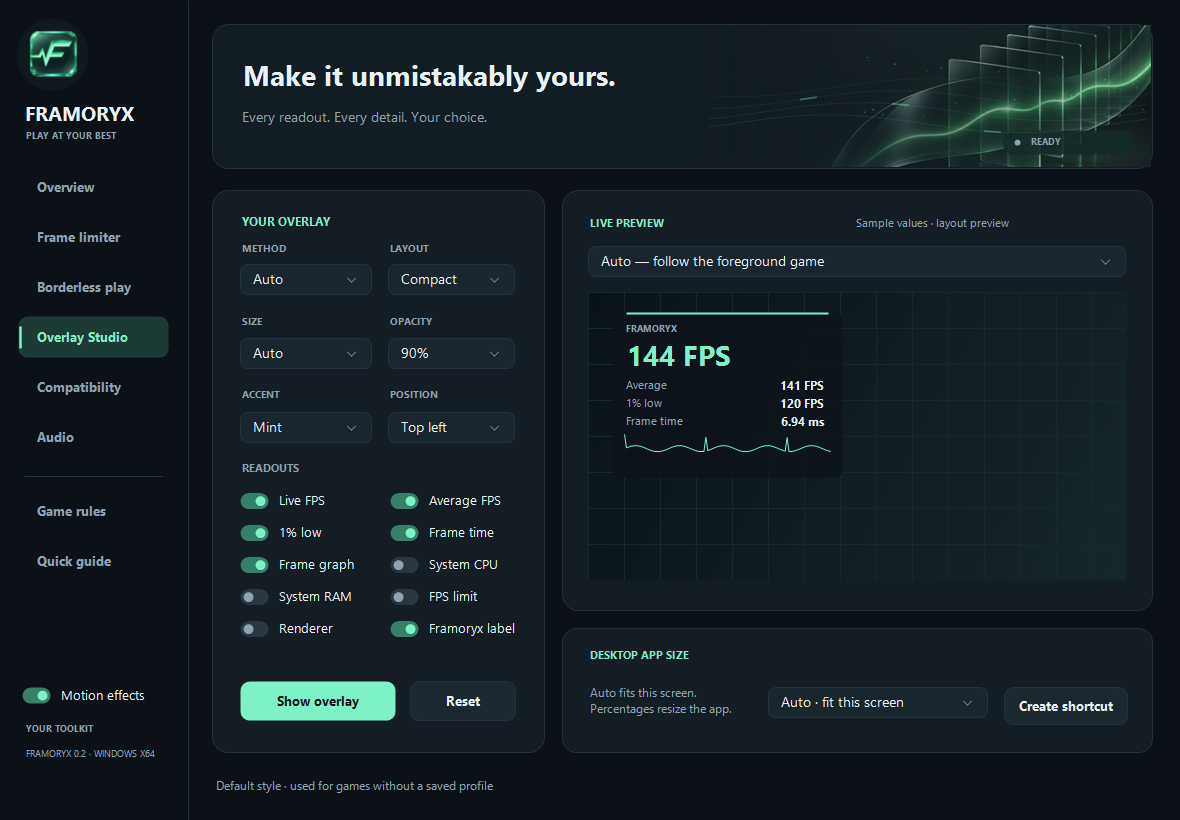
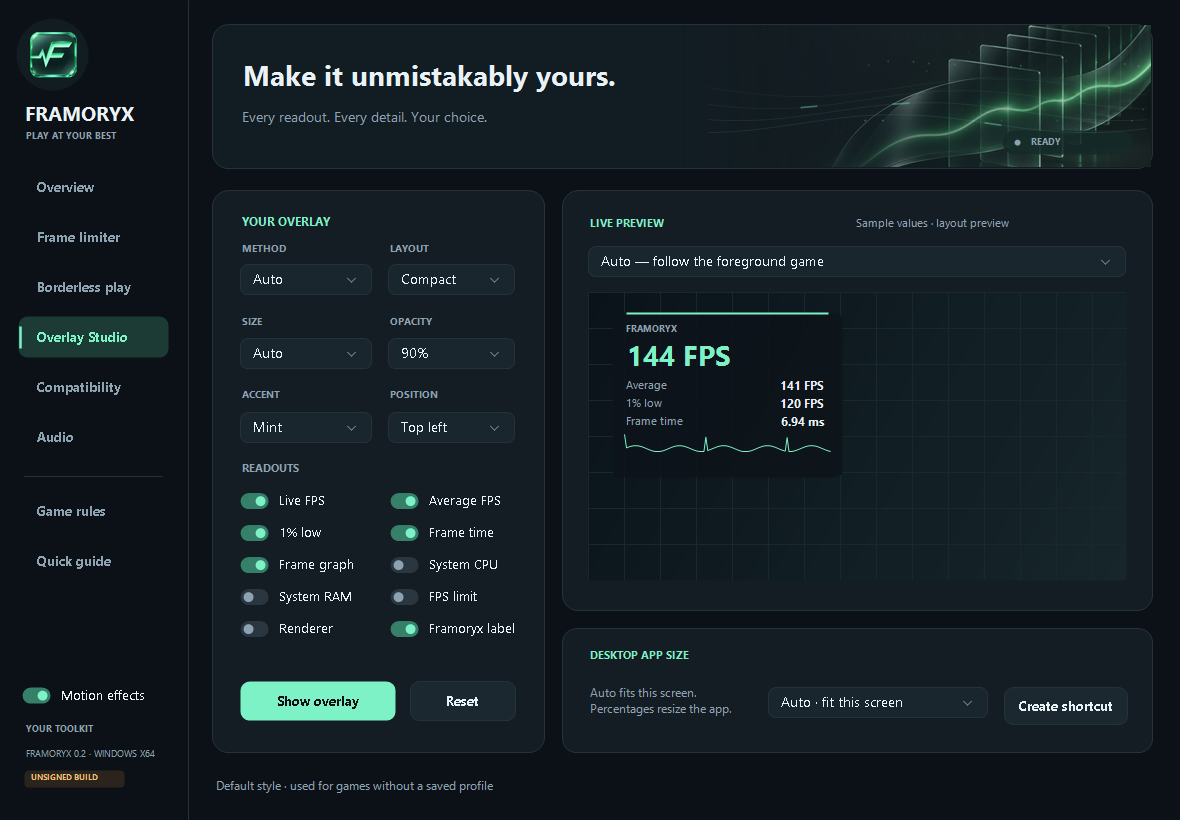
Finish audio setup, unsigned build notices and release validation

diff --git a/source/main.cpp b/source/main.cpp
@@ -1223,6 +1223,8 @@ void paintMain(HDC destination, const RECT& invalid) {
             line(g, 24, 476, 162, 476);
             label(g, L"YOUR TOOLKIT", 24, 722, 145, 20, 9, muted, true);
             label(g, L"FRAMORYX 0.2 · WINDOWS X64", 24, 747, 146, 40, 9, muted, false, true);
+            rounded(g, RectF(24, 770, 100, 17), Color(255, 43, 36, 29), 4);
+            label(g, L"UNSIGNED BUILD", 30, 771, 94, 16, 8, amber, true);
             if (!app.preferencesSaved)
                 label(g, L"Preferences not saved", 24, 794, 145, 20, 9, amber, true);
             if (app.page == 5)
@@ -1798,7 +1800,9 @@ LRESULT CALLBACK comboProc(HWND w, UINT msg, WPARAM wp, LPARAM lp, UINT_PTR, DWO
         GetClientRect(w, &r);
         {
             Graphics g(dc);
-            g.Clear(id == Corner ? bg : card);
+            bool audioInset = id == BoostLevel || id == BassAmount || id == MicNoisePreset ||
+                              id == MicEQPreset || (id >= MicLow && id <= MicHigh);
+            g.Clear(id == Corner ? bg : (audioInset ? Color(255, 17, 25, 32) : card));
             g.SetSmoothingMode(SmoothingModeAntiAlias);
             rounded(g, RectF(0, 0, float(r.right - 1), float(r.bottom - 1)), Color(255, 25, 38, 46),
                     7, true);
@@ -2366,7 +2370,10 @@ LRESULT CALLBACK mainProc(HWND window, UINT msg, WPARAM wp, LPARAM lp) {
         Color buttonColor = disabled  ? Color(255, 22, 29, 35)
                             : pressed ? Color(255, 49, 96, 80)
                                       : mixColor(base, hot, warmth);
-        g.Clear(nav ? bg : card);
+        bool audioInset = d->CtlID == ApplyBoost || d->CtlID == DisableBoost ||
+                          d->CtlID == BassApply || d->CtlID == BassDisable ||
+                          d->CtlID == MicChoosePlugin || d->CtlID == MicDownload;
+        g.Clear(nav ? bg : (audioInset ? Color(255, 17, 25, 32) : card));
         rounded(g, RectF(0, 0, width - 1, height - 1), buttonColor, 9,
                 !nav && !primary && !stepper);
         if (!nav && !disabled && warmth > .01) {
@@ -2585,6 +2592,11 @@ LRESULT CALLBACK mainProc(HWND window, UINT msg, WPARAM wp, LPARAM lp) {
             double db = SendMessageW(app.controls[BoostLevel], CB_GETCURSEL, 0, 0) == 0
                             ? 3.0
                             : 20 * std::log10(2.0);
+            if (!app.smokeAudio && !fg::setAudioVolume(1.f)) {
+                app.audioNotice = L"Windows could not change this output’s volume.";
+                break;
+            }
+            app.audio.volume = 1.f;
             app.gainWorker.request(app.boost.directory(), app.audio.guid, db);
             app.outputBoostActive = true;
             app.outputPercent = std::clamp(
@@ -2815,7 +2827,10 @@ int WINAPI wWinMain(HINSTANCE instance, HINSTANCE, PWSTR, int show) {
             app.rulesSnapshotPath = arguments[++i];
         else if (argument == L"--audio-mic")
             app.diagnosticMic = true;
-        else if (argument == L"--snapshot" && i + 1 < argumentCount)
+        else if (argument == L"--audio-setup" && diagnosticInstance) {
+            app.audioSetup = true;
+            app.fixedSmokePage = 1;
+        } else if (argument == L"--snapshot" && i + 1 < argumentCount)
             app.snapshotPath = arguments[++i];
         else if (argument == L"--smoke-seconds" && i + 1 < argumentCount) {
             auto duration = fg::number(fg::utf8(arguments[++i]));

diff --git a/source/audio_gain.hpp b/source/audio_gain.hpp
@@ -3,6 +3,7 @@
 #include <thread>
 #include <mutex>
 #include <condition_variable>
+#include <chrono>
 namespace fg {
 class GainWorker {
     struct Request {
@@ -14,7 +15,7 @@ class GainWorker {
     std::condition_variable wake;
     std::optional<Request> pending;
     std::optional<std::wstring> result;
-    bool stopped = false;
+    bool stopped = false, writing = false;
 
   public:
     ~GainWorker() {
@@ -45,12 +46,14 @@ class GainWorker {
                         break;
                     auto request = *pending;
                     pending.reset();
+                    writing = true;
                     lock.unlock();
                     AudioBoost boost;
                     boost.directory(request.directory);
                     auto error =
                         request.db > 0 ? boost.apply(request.db, request.guid) : boost.disable();
                     lock.lock();
+                    writing = false;
                     result = std::move(error);
                 }
             });
@@ -61,6 +64,10 @@ class GainWorker {
         auto out = result;
         result.reset();
         return out;
+    }
+    bool busy() {
+        std::lock_guard lock(mutex);
+        return writing || pending.has_value();
     }
 };
 } // namespace fg

diff --git a/source/audio.hpp b/source/audio.hpp
@@ -180,7 +180,7 @@ class AudioBoost {
         pos += 8;
         auto end = filter.find(' ', pos);
         auto n = number(filter.substr(pos, end - pos));
-        return n ? std::optional<double>(*n) : std::nullopt;
+        return n && *n >= 0 && *n <= 12 ? std::optional<double>(*n) : std::nullopt;
     }
     std::wstring apply(double db, const std::wstring& endpointGuid) {
         bool validGuid = endpointGuid.size() == 38 && endpointGuid.front() == L'{' &&
@@ -230,7 +230,8 @@ class AudioBoost {
             return L"Cannot save boost. Run Framoryx as administrator to change the Equalizer APO "
                    L"config.";
         if (!installed) {
-            config += "\r\n# Framoryx audio boost\r\nDevice: all\r\nInclude: framoryx-boost.txt\r\n";
+            config +=
+                "\r\n# Framoryx audio boost\r\nDevice: all\r\nInclude: framoryx-boost.txt\r\n";
             if (!write(base / L"config.txt", config)) {
                 write(base / L"framoryx-boost.txt", "# Framoryx audio boost\r\nPreamp: 0 dB\r\n");
                 return L"Cannot link the audio configuration. No boost applied.";

diff --git a/source/noise_updates.cpp b/source/noise_updates.cpp
@@ -378,7 +378,16 @@ void NoiseUpdater::start(const std::wstring& directory, bool force) {
     if (state->worker.joinable())
         state->worker.join();
     state->cancel = false;
-    state->worker = std::thread([this, directory, force] { state->run(directory, force); });
+    {
+        std::lock_guard lock(state->mutex);
+        state->result.reset();
+    }
+    try {
+        state->worker = std::thread([this, directory, force] { state->run(directory, force); });
+    } catch (const std::exception&) {
+        state->status(L"Windows could not start the update worker. Try again later.");
+        state->busy = false;
+    }
 }
 bool NoiseUpdater::running() const {
     return state->busy;

diff --git a/source/audio_ui.hpp b/source/audio_ui.hpp
@@ -64,7 +64,8 @@ void paintAudio(Graphics& g) {
         label(g,
               L"Bass and EQ include headroom reduction. Amplifying above 100% can still clip. "
               L"Effects remain configured after exit.",
-              244, 745, 860, 22, 10, muted);
+              244, 605, 860, 22, 10, muted);
+        label(g, app.audioNotice, 214, 777, 938, 38, 12, muted, false, true);
         return;
     }
     if (app.audioTab == 0) {

diff --git a/source/audio_work.hpp b/source/audio_work.hpp
@@ -1,4 +1,6 @@
 void syncOutputVolume() {
+    if (app.gainWorker.busy())
+        return;
     app.audio = fg::audioState();
     double gain = app.boost.configuredGain(app.audio.guid).value_or(0);
     app.outputBoostActive = gain > .001;

diff --git a/docs/VALIDATION.md b/docs/VALIDATION.md
@@ -8,11 +8,14 @@ The local Windows validation completed:
 - Official RNNoise v1.10 mono and stereo VST2 binaries accepted all three configured voice thresholds and processed 480,000 finite offline samples each. This is a DSP/state check, not a listening-quality certification.
 - **67 graphics/lifecycle checks** against bundled x64 DX11, x64 DX12 and x86 DX11 scenes.
 - **Four UI/profile/scale checks**, including saved-layout round-trip through the actual controls, smaller/larger desktop percentages and Auto restoration.
+- **Six audio UI checks** through the actual controls, covering live percentage state, the 200% range, voice presets and setup navigation. Windows volume writes are suppressed in this bounded diagnostic mode; any gain configuration uses an isolated scratch folder.
+- **Two process-rule UI checks** for inline invalid-path rejection and valid-rule persistence.
+- A successful automatic download of the latest stable upstream RNNoise release (v1.10), with archive SHA-256, mono/stereo selection and isolated audio/preset probes. Transient GitHub failures exercised retry and release-list/asset-route fallback behavior.
 - A **120-second non-injecting ETW/borderless soak**: 391 steady observations, no missing telemetry, seven window transitions, 36,864 bytes of post-warm-up collector growth and zero handle growth.
 
 The graphics checks covered all three HUD layouts, selected readouts, live size/opacity/accent changes, font-atlas rebuilding, frame-ring integrity, 30/60/uncapped pacing, shader preservation, resizing, clean disable, heartbeat loss and conservative multi-queue DX12 fallback.
 
-The UI animation check targeted the detected 144 Hz display, completed seven navigation transitions, exercised three window sizes and received real demo frames. Average paint time was approximately 1.4 ms; initial/layout/cache work caused higher peaks. This is a diagnostic workload, not a universal frame-presentation or idle-power benchmark.
+The UI animation check targeted the detected 144 Hz display, completed seven navigation transitions, exercised three window sizes and received real demo frames. The latest 28-second run received 101 real demo samples and completed seven transitions, with an average paint time of approximately 1.28 ms; initial/layout/cache work caused higher peaks. This is a diagnostic workload, not a universal frame-presentation or idle-power benchmark.
 
 ## Interrupted test
 

diff --git a/docs/BUILDING.md b/docs/BUILDING.md
@@ -12,7 +12,7 @@ The toolchain archive is pinned and SHA-256 verified. PresentMon is fetched sepa
 ./scripts/package.ps1 -ToolchainBin C:\llvm-mingw\bin
 ```
 
-Core tests and audio-configuration tests run during the build. Audio tests use scratch configuration files and do not change system audio.
+The build runs 32 core, 20 gain and 38 microphone/bass configuration checks. It also builds an isolated VST2 audio-compatibility helper for runtime RNNoise downloads. Audio tests use scratch configuration files and do not change system audio.
 
 ## Runtime checks
 
@@ -26,6 +26,8 @@ Core tests and audio-configuration tests run during the build. Audio tests use s
 # UI/profile/scale/motion checks with isolated preferences
 ./source/validate.ps1 -ToolchainBin C:\llvm-mingw\bin -UiSmokeSeconds 28
 ```
+
+The bounded `--smoke-audio-controls` app flag can be combined with `--smoke-seconds 12 --smoke-page 1 --report <scratch.json> --settings-file <scratch.ini>` to exercise the audio/rules controls. It suppresses Windows volume writes, disables automatic downloads and directs gain changes into a scratch APO config. Both report and isolated settings arguments are required. `--snapshot <image.png>`, `--audio-mic` and `--audio-setup` export the app's own client rendering for visual review.
 
 The old injection soak is a separate `-IncludeHookSoak` opt-in and was blocked by Defender on the development host. A blocked or incomplete run is not counted as a pass. See [compatibility](COMPATIBILITY.md).
 

diff --git a/docs/releases/v0.2.0.md b/docs/releases/v0.2.0.md
@@ -4,8 +4,9 @@
 
 ## New
 
-- Separate Output and Microphone audio views, headroom-compensated bass and three-band voice EQ.
-- Optional RNNoise VST2 configuration with Natural, Balanced and Strong presets. Requires separately installed Equalizer APO and the official external plugin; no audio is recorded by Framoryx.
+- Separate Output and Microphone audio views, headroom-compensated bass, three-band voice EQ and a 0–200% slider with live percentage feedback.
+- Automatic official RNNoise VST2 downloads with versioned folders, checksums, isolated preset/audio checks and a manual update switch.
+- Optional RNNoise VST2 configuration with Natural, Balanced and Strong presets. Requires separately configured Equalizer APO; the external plugin is fetched automatically; no audio is recorded by Framoryx.
 - Rounded FPS stepper and redesigned process-rule cards with inline validation.
 
 - Glass, Compact and Telemetry Bar HUD layouts.

diff --git a/README.md b/README.md
@@ -35,6 +35,15 @@ Keep an eye on real frame data, make the HUD your own, and get back to playing. 
 
 </details>
 
+<details>
+<summary>Frame limiter and process rules</summary>
+
+![Frame limiter with a rounded FPS stepper](docs/images/limiter.png)
+
+![Process rules with matching cards and inline validation](docs/images/rules.png)
+
+</details>
+
 ## Get started
 
 1. Download the Windows ZIP and extract the whole folder.
